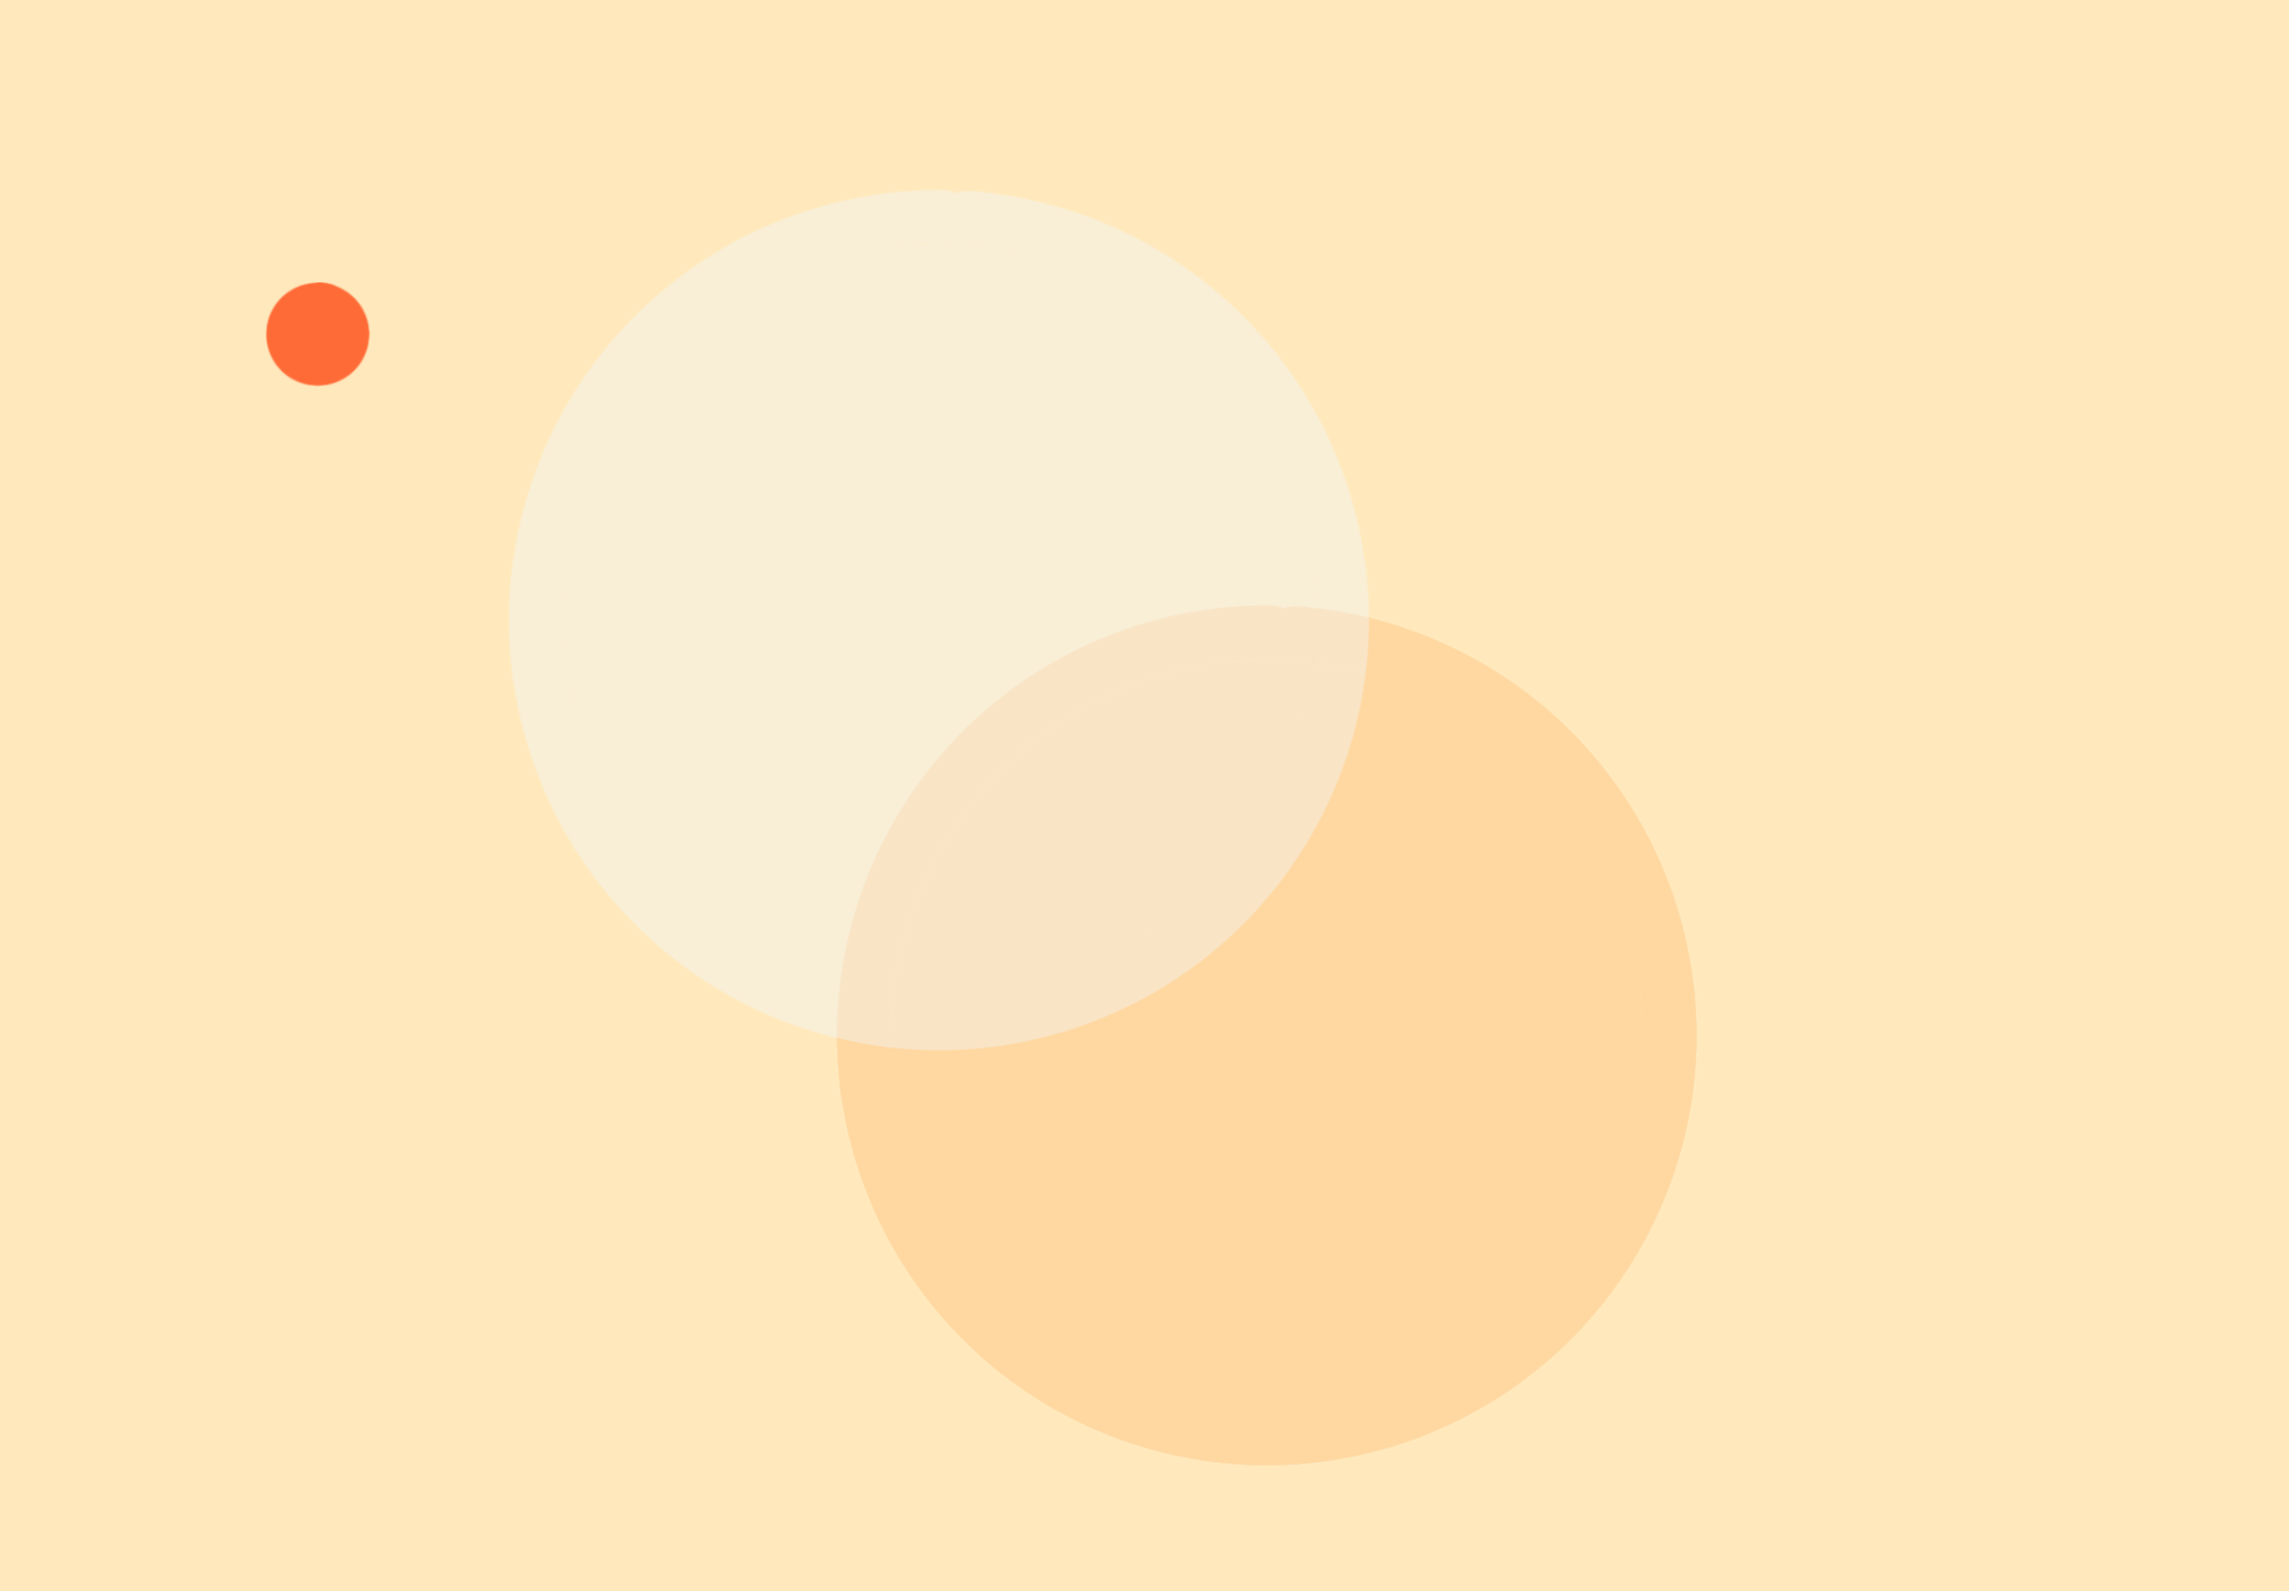
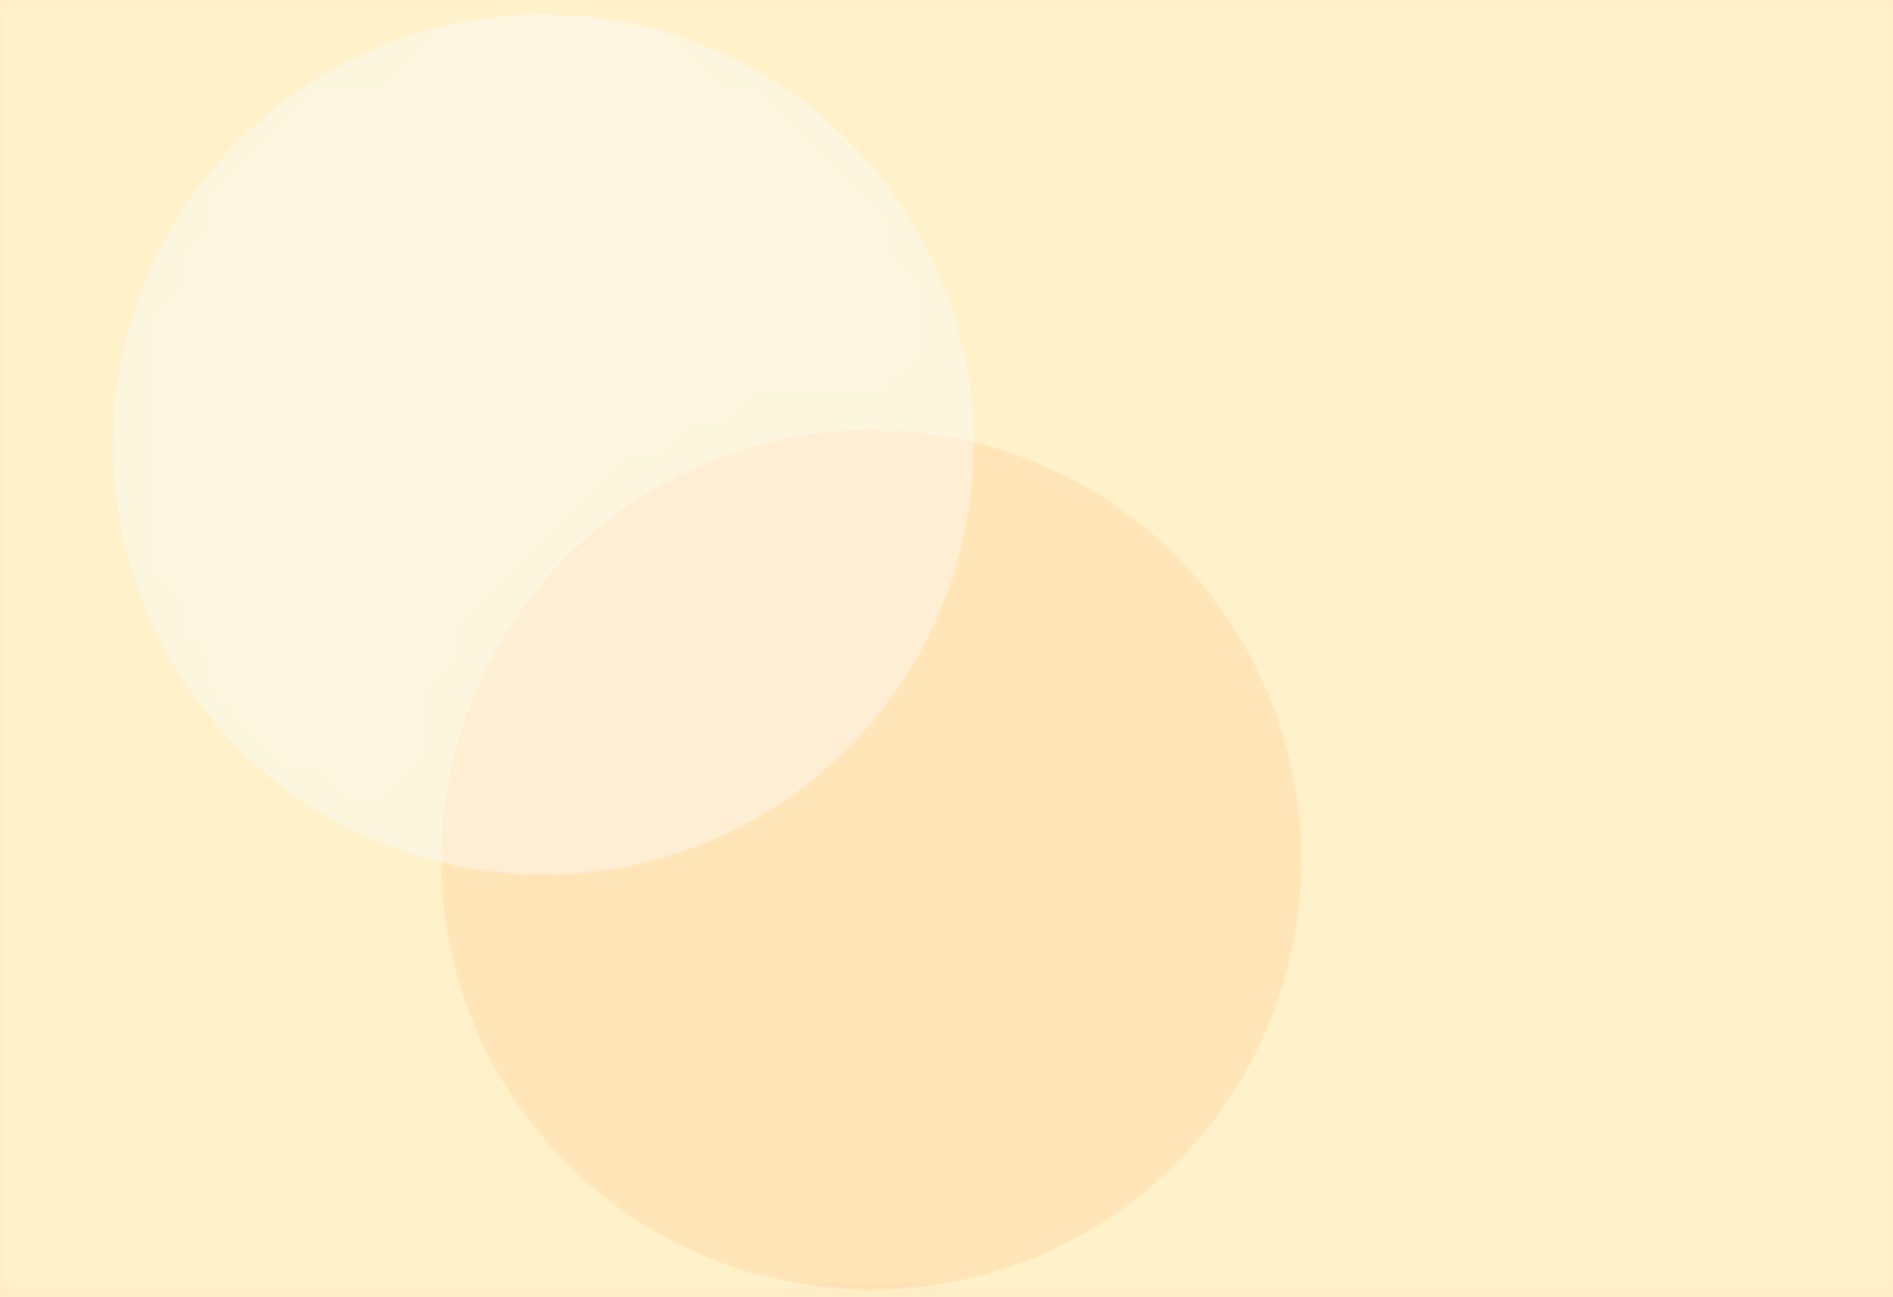
updates

Changed region(s): [[0.0615, 0.0, 0.4613, 0.6746], [0.4921, 0.3373, 0.7381, 0.92]]

diff --git a/index.html b/index.html
@@ -23,10 +23,10 @@
             <button class="tablinks" onclick="openSection(event, 'interests')">Interests</button>
             <!-- <button class="tablinks" onclick="openSection(event, 'contact')">Contact</button> -->
             <!-- <button class="tablinks" onclick="openSection(event, 'experience')">Experience</button> -->
-            <button class="tablinks" onclick="openSection(event, 'learning')">Learning</button>
+            <button class="tablinks" onclick="openSection(event, 'resources')">Resources</button>
           </div>
           <div id="home" class="tabcontent">
-            <img id="typing" src="images/typing1.1.png" alt="Typing 1 Image">
+            <img id="typing" src="images/pic1.jpg" alt="Typing 1 Image">
             <p id="demo" style="font-size: 20px; text-align: center;"></p>
           </div>
 
@@ -42,7 +42,7 @@
           <div id="interests" class="tabcontent">
             <!-- <h3>Interests</h3> -->
             <!-- <img id="typing" style="background-color: rgb(205, 255, 253); box-shadow:0px 3px 3px #85d1e890"  -->
-            <img id="typing" src="images/typing2.1.png" alt="Typing 2 image">
+            <img id="typing" src="images/pic2.jpg" alt="Typing 2 image">
             <p> My main interests are in Cloud Computing, Embedded Systems, Systems Software, and Big Data Analytics. 
               Areas I want to work in include Medical Devices and Systems, Wireless and Cyber-Physical Systems, IoT for 
               Healthcare engineering systems and smart connected cities, as well as Cloud-connected, and Wearable embedded computing.
@@ -72,9 +72,9 @@
               Here's a copy of my <a href="pdfs\Lohith Chittineni Resume 2022.pdf">resume</a> for more information.
             </p>
           </div> --> 
-          <div id="learning" class="tabcontent">
-              <img id="typing"  src="images/typing3.1.png" alt="Typing 3 image">
-              Links to various learning resources and courses gathered over time. <br>
+          <div id="resources" class="tabcontent">
+              <img id="typing"  src="images/pic3.jpg" alt="Typing 3 image">
+              Links to various learning resources and courses collcted over time. <br>
             <ul>
               <li><a href="https://www.digitalocean.com/community/tutorials" >Digital Ocean Tutorials</a></li>
               <li><a href="https://www.cloudflare.com/learning/">Cloudflare Learning</a></li>

diff --git a/style.css b/style.css
@@ -1,5 +1,5 @@
 body {
-   background-color: rgb(254, 247, 231); 
+   background-color: rgb(255, 234, 230); 
    background-image: url('images/background-2.png');
    background-attachment: fixed;
    background-size: cover;
@@ -160,7 +160,7 @@ ul {
   } */
 
 #links {
-    color: rgb(255, 91, 58);
+    color: rgb(92, 104, 209);
     margin-left: auto;
     margin-right: auto;
 }
@@ -180,7 +180,7 @@ ul {
     height: 2px;
     bottom: 0;
     left: 0;
-    background-color: rgb(255, 91, 58);
+    background-color: rgb(92, 104, 209);
     transform-origin: bottom right;
     transition: transform 0.4s ease-out;
 }
@@ -203,7 +203,7 @@ img:hover {
 }
 
 a:hover {
-    color: rgb(255, 38, 0);
+    color: rgb(92, 104, 209);
     background-color: transparent;
     text-decoration: underline;
 }
